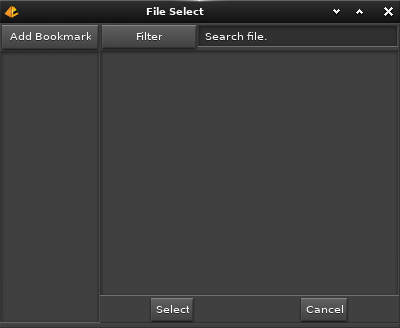
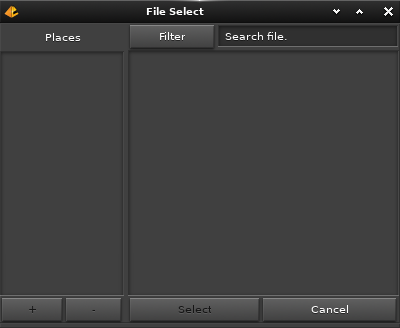
update.

diff --git a/nfsb/nfsb.c b/nfsb/nfsb.c
@@ -20,6 +20,7 @@ static Fileselect_Widgets g_pub_widgets;
   const char *icon_go_previous = "/icon_go_previous.png";
   const char *icon_go_next = "/icon_go_next.png";
   const char *icon_folder = "/icon_folder.png";
+  const char *icon_favorite = "/icon_emblem_favorite.png";
 #endif
 
 Fileselect_Win_Main_Widgets *
@@ -33,9 +34,12 @@ fileselect_win_main_create(Eo *__main_parent)
    Eo *hbox;
    Eo *box_bookmarks;
    Eo *elm_box3;
-   Eo *add_bookmark_btn;
+   Eo *elm_label1;
    Eo *elm_box5;
    Eo *bookmarks_gen;
+   Eo *elm_box6;
+   Eo *add_bookmark_btn;
+   Eo *elm_button1;
    Eo *box_files;
    Eo *elm_box1;
    Eo *view_filter_btn;
@@ -63,6 +67,7 @@ fileselect_win_main_create(Eo *__main_parent)
    eo_do(vbox, evas_obj_size_hint_align_set(-1.000000, -1.000000));
    eo_do(vbox, evas_obj_size_set(198, 124));
    eo_do(vbox, evas_obj_position_set(-19, -15));
+   eo_do(vbox, elm_obj_box_padding_set(4, 0));
    eo_do(win_main, elm_obj_win_resize_object_add(win_main_bg));
    eo_do(win_main, elm_obj_win_resize_object_add(vbox));
    hbox = eo_add(ELM_BOX_CLASS, vbox);
@@ -74,6 +79,7 @@ fileselect_win_main_create(Eo *__main_parent)
    eo_do(hbox, evas_obj_size_hint_aspect_set(EVAS_ASPECT_CONTROL_NONE, 0, 0));
    eo_do(hbox, evas_obj_size_hint_align_set(-1.000000, -1.000000));
    eo_do(hbox, evas_obj_size_hint_weight_set(1.000000, 20.000000));
+   eo_do(hbox, elm_obj_box_padding_set(4, 0));
    eo_do(vbox, elm_obj_box_pack_end(hbox));
    box_bookmarks = eo_add(ELM_BOX_CLASS, hbox);
    eo_do(box_bookmarks, evas_obj_visibility_set(EINA_TRUE));
@@ -85,16 +91,17 @@ fileselect_win_main_create(Eo *__main_parent)
    eo_do(elm_box3, evas_obj_visibility_set(EINA_TRUE));
    eo_do(elm_box3, evas_obj_size_hint_align_set(-1.000000, 0.000000));
    eo_do(elm_box3, evas_obj_size_hint_weight_set(1.000000, 0.000000));
-   add_bookmark_btn = eo_add(ELM_BUTTON_CLASS, elm_box3);
-   eo_do(add_bookmark_btn, evas_obj_size_hint_weight_set(1.000000, 1.000000));
-   eo_do(add_bookmark_btn, evas_obj_visibility_set(EINA_TRUE));
-   eo_do(add_bookmark_btn, elm_obj_widget_part_text_set(NULL, "Add Bookmark"));
-   eo_do(add_bookmark_btn, evas_obj_position_set(0, 0));
-   eo_do(add_bookmark_btn, evas_obj_size_hint_aspect_set(EVAS_ASPECT_CONTROL_NONE, 0, 0));
-   eo_do(add_bookmark_btn, evas_obj_size_set(0, 0));
-   eo_do(add_bookmark_btn, evas_obj_size_hint_min_set(0, 28));
-   eo_do(add_bookmark_btn, evas_obj_size_hint_align_set(-1.000000, 0.000000));
-   eo_do(elm_box3, elm_obj_box_pack_end(add_bookmark_btn));
+   eo_do(elm_box3, evas_obj_size_set(0, 0));
+   eo_do(elm_box3, evas_obj_size_hint_min_set(0, 28));
+   elm_label1 = eo_add(ELM_LABEL_CLASS, elm_box3);
+   eo_do(elm_label1, evas_obj_size_hint_weight_set(1.000000, 1.000000));
+   eo_do(elm_label1, evas_obj_visibility_set(EINA_TRUE));
+   eo_do(elm_label1, evas_obj_size_hint_align_set(-1.000000, -1.000000));
+   eo_do(elm_label1, evas_obj_size_set(0, 0));
+   eo_do(elm_label1, elm_obj_widget_part_text_set(NULL, "Places"));
+   eo_do(elm_label1, elm_obj_widget_disabled_set(EINA_FALSE));
+   eo_do(elm_label1, evas_obj_size_hint_min_set(0, 28));
+   eo_do(elm_box3, elm_obj_box_pack_end(elm_label1));
    elm_box5 = eo_add(ELM_BOX_CLASS, box_bookmarks);
    eo_do(elm_box5, evas_obj_visibility_set(EINA_TRUE));
    eo_do(elm_box5, evas_obj_size_hint_weight_set(1.000000, 1.000000));
@@ -102,8 +109,6 @@ fileselect_win_main_create(Eo *__main_parent)
    eo_do(elm_box5, evas_obj_size_set(146, 191));
    eo_do(elm_box5, evas_obj_position_set(0, 217));
    eo_do(elm_box5, evas_obj_size_hint_align_set(-1.000000, -1.000000));
-   eo_do(box_bookmarks, elm_obj_box_pack_end(elm_box3));
-   eo_do(box_bookmarks, elm_obj_box_pack_end(elm_box5));
    bookmarks_gen = eo_add(ELM_GENLIST_CLASS, elm_box5);
    eo_do(bookmarks_gen, evas_obj_visibility_set(EINA_TRUE));
    eo_do(bookmarks_gen, evas_obj_size_hint_min_set(0, 0));
@@ -112,6 +117,33 @@ fileselect_win_main_create(Eo *__main_parent)
    eo_do(bookmarks_gen, evas_obj_size_set(0, 0));
    eo_do(bookmarks_gen, evas_obj_size_hint_weight_set(1.000000, 1.000000));
    eo_do(elm_box5, elm_obj_box_pack_end(bookmarks_gen));
+   elm_box6 = eo_add(ELM_BOX_CLASS, box_bookmarks);
+   eo_do(elm_box6, evas_obj_visibility_set(EINA_TRUE));
+   eo_do(elm_box6, evas_obj_size_hint_align_set(-1.000000, -1.000000));
+   eo_do(elm_box6, evas_obj_size_hint_weight_set(1.000000, 0.000000));
+   eo_do(elm_box6, elm_obj_box_horizontal_set(EINA_TRUE));
+   eo_do(box_bookmarks, elm_obj_box_pack_end(elm_box3));
+   eo_do(box_bookmarks, elm_obj_box_pack_end(elm_box5));
+   eo_do(box_bookmarks, elm_obj_box_pack_end(elm_box6));
+   add_bookmark_btn = eo_add(ELM_BUTTON_CLASS, elm_box6);
+   eo_do(add_bookmark_btn, evas_obj_size_hint_weight_set(1.000000, 1.000000));
+   eo_do(add_bookmark_btn, evas_obj_visibility_set(EINA_TRUE));
+   eo_do(add_bookmark_btn, evas_obj_position_set(0, 0));
+   eo_do(add_bookmark_btn, evas_obj_size_hint_aspect_set(EVAS_ASPECT_CONTROL_NONE, 0, 0));
+   eo_do(add_bookmark_btn, evas_obj_size_set(0, 0));
+   eo_do(add_bookmark_btn, evas_obj_size_hint_min_set(0, 28));
+   eo_do(add_bookmark_btn, elm_obj_widget_part_text_set(NULL, "+"));
+   eo_do(add_bookmark_btn, evas_obj_size_hint_align_set(-1.000000, 0.500000));
+   eo_do(add_bookmark_btn, elm_obj_widget_disabled_set(EINA_TRUE));
+   elm_button1 = eo_add(ELM_BUTTON_CLASS, elm_box6);
+   eo_do(elm_button1, evas_obj_size_hint_weight_set(1.000000, 1.000000));
+   eo_do(elm_button1, evas_obj_visibility_set(EINA_TRUE));
+   eo_do(elm_button1, evas_obj_size_set(73, 30));
+   eo_do(elm_button1, elm_obj_widget_part_text_set(NULL, "-"));
+   eo_do(elm_button1, evas_obj_size_hint_align_set(-1.000000, 0.500000));
+   eo_do(elm_button1, elm_obj_widget_disabled_set(EINA_TRUE));
+   eo_do(elm_box6, elm_obj_box_pack_end(add_bookmark_btn));
+   eo_do(elm_box6, elm_obj_box_pack_end(elm_button1));
    box_files = eo_add(ELM_BOX_CLASS, hbox);
    eo_do(box_files, evas_obj_size_hint_weight_set(1.000000, 1.000000));
    eo_do(box_files, evas_obj_visibility_set(EINA_TRUE));
@@ -124,6 +156,8 @@ fileselect_win_main_create(Eo *__main_parent)
    eo_do(elm_box1, elm_obj_box_horizontal_set(EINA_TRUE));
    eo_do(elm_box1, evas_obj_size_hint_align_set(-1.000000, 0.000000));
    eo_do(elm_box1, evas_obj_size_hint_weight_set(1.000000, 0.000000));
+   eo_do(elm_box1, elm_obj_box_padding_set(2, 0));
+   eo_do(elm_box1, evas_obj_size_hint_min_set(0, 28));
    view_filter_btn = eo_add(ELM_BUTTON_CLASS, elm_box1);
    eo_do(view_filter_btn, evas_obj_visibility_set(EINA_TRUE));
    eo_do(view_filter_btn, elm_obj_widget_part_text_set(NULL, "Filter"));
@@ -163,8 +197,9 @@ fileselect_win_main_create(Eo *__main_parent)
    eo_do(elm_box4, evas_obj_size_set(0, 0));
    eo_do(elm_box4, elm_obj_box_horizontal_set(EINA_TRUE));
    eo_do(elm_box4, evas_obj_size_hint_align_set(-1.000000, 1.000000));
-   eo_do(elm_box4, elm_obj_box_padding_set(6, 6));
    eo_do(elm_box4, evas_obj_size_hint_weight_set(1.000000, 0.000000));
+   eo_do(elm_box4, evas_obj_size_hint_min_set(102, 28));
+   eo_do(elm_box4, elm_obj_box_padding_set(0, 0));
    eo_do(box_files, elm_obj_box_pack_end(elm_box1));
    eo_do(box_files, elm_obj_box_pack_end(elm_box2));
    eo_do(box_files, elm_obj_box_pack_end(elm_box4));
@@ -173,11 +208,14 @@ fileselect_win_main_create(Eo *__main_parent)
    eo_do(select_btn, evas_obj_visibility_set(EINA_TRUE));
    eo_do(select_btn, evas_obj_size_set(0, 0));
    eo_do(select_btn, elm_obj_widget_part_text_set(NULL, "Select"));
+   eo_do(select_btn, elm_obj_widget_disabled_set(EINA_TRUE));
+   eo_do(select_btn, evas_obj_size_hint_align_set(-1.000000, 0.500000));
    elm_button2 = eo_add(ELM_BUTTON_CLASS, elm_box4);
    eo_do(elm_button2, evas_obj_size_hint_weight_set(1.000000, 1.000000));
    eo_do(elm_button2, evas_obj_visibility_set(EINA_TRUE));
    eo_do(elm_button2, evas_obj_size_set(0, 0));
    eo_do(elm_button2, elm_obj_widget_part_text_set(NULL, "Cancel"));
+   eo_do(elm_button2, evas_obj_size_hint_align_set(-1.000000, 0.500000));
    eo_do(elm_box4, elm_obj_box_pack_end(select_btn));
    eo_do(elm_box4, elm_obj_box_pack_end(elm_button2));
    eo_do(win_main, evas_obj_visibility_set(EINA_TRUE));
